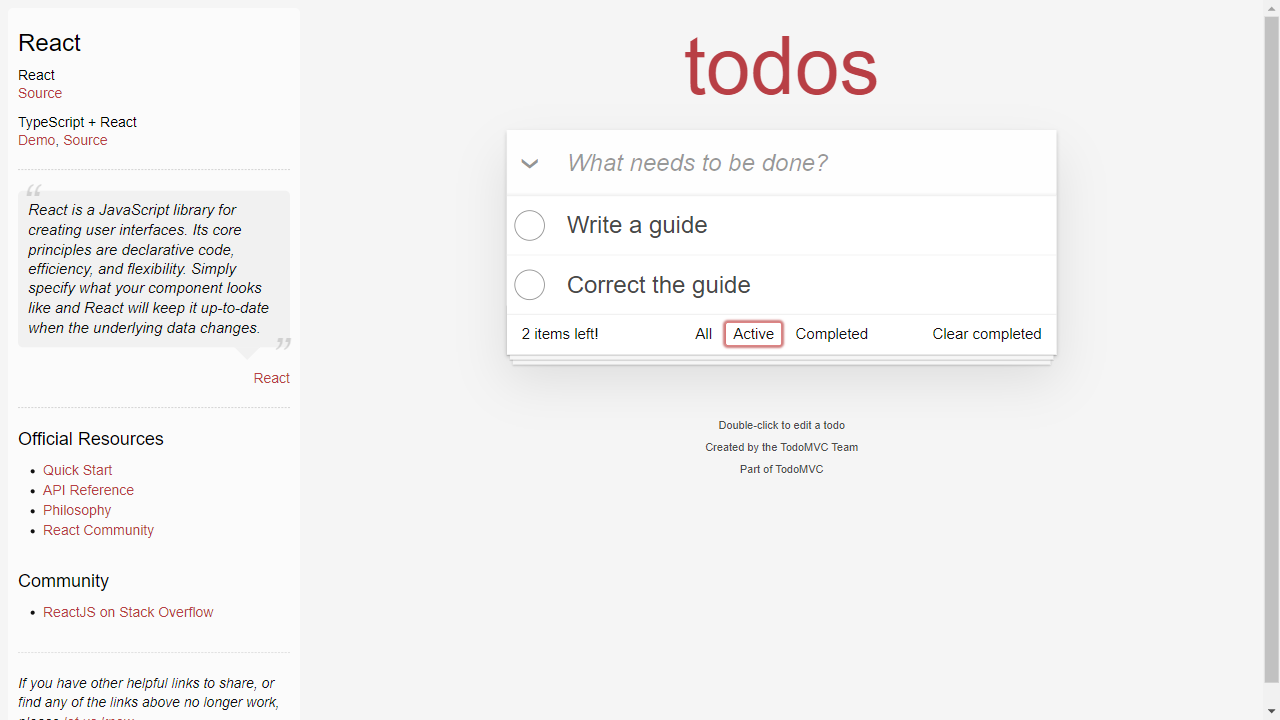
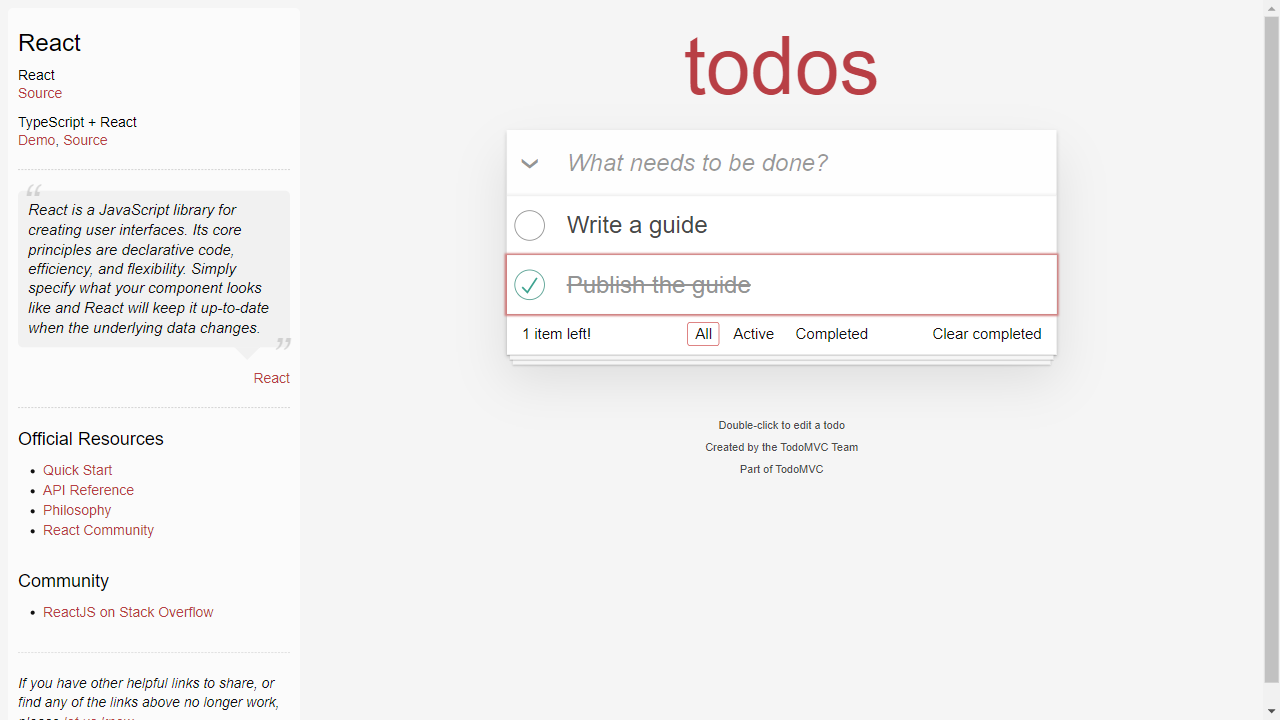
main

Changed region(s): [[0.4062, 0.3361, 0.8125, 0.4889]]

diff --git a/tests/todomvc/test1.js b/tests/todomvc/test1.js
@@ -282,6 +282,7 @@ Scenario('todo item activities', async({ I }) => {
   I.see('2 items left', '.todo-count');
 
   //deleting spcific item and verifying its visibility
+  //for an active item
   //delete an item in "all" page
   I.moveCursorTo(`//li[@data-testid = 'todo-item']//*[text()='Correct the guide']`);
   I.click(`//li[@data-testid = 'todo-item']//label[text()='Correct the guide']/following-sibling::button`)
@@ -295,8 +296,133 @@ Scenario('todo item activities', async({ I }) => {
   I.click(`//ul[@class='filters']//li//a[@href='#/completed']`)
   I.dontSeeElement(`//li[@data-testid = 'todo-item']//*[text()='Correct the guide']`)
   I.see('1 item left', '.todo-count');
-  
-  
+  //tryin this same thing in other tabs
+  //
+  I.click(`//ul[@class='filters']//li//a[@href='#/active']`)
+  I.fillField(`//input[@id='todo-input']`, 'Correct the guide');
+  I.pressKey('Enter');
+  I.seeElement(`//label[text()='Correct the guide']/ancestor::li[@data-testid = 'todo-item']`);
+  I.see('2 items left', '.todo-count');
+  I.moveCursorTo(`//li[@data-testid = 'todo-item']//*[text()='Correct the guide']`);
+  I.click(`//li[@data-testid = 'todo-item']//label[text()='Correct the guide']/following-sibling::button`)
+  I.dontSeeElement(`//li[@data-testid = 'todo-item']//*[text()='Correct the guide']`)
+  I.see('1 item left', '.todo-count');
+  I.click(`//ul[@class='filters']//li//a[@href='#/']`)
+  I.dontSeeElement(`//li[@data-testid = 'todo-item']//*[text()='Correct the guide']`)
+  I.see('1 item left', '.todo-count');
+  I.click(`//ul[@class='filters']//li//a[@href='#/completed']`)
+  I.dontSeeElement(`//li[@data-testid = 'todo-item']//*[text()='Correct the guide']`)
+  I.see('1 item left', '.todo-count');
+  //
+  I.click(`//ul[@class='filters']//li//a[@href='#/completed']`)
+  I.fillField(`//input[@id='todo-input']`, 'Correct the guide');
+  I.pressKey('Enter');
+  I.click(`//ul[@class='filters']//li//a[@href='#/']`)
+  I.seeElement(`//label[text()='Correct the guide']/ancestor::li[@data-testid = 'todo-item']`);
+  I.see('2 items left', '.todo-count');
+  I.moveCursorTo(`//li[@data-testid = 'todo-item']//*[text()='Correct the guide']`);
+  I.click(`//li[@data-testid = 'todo-item']//label[text()='Correct the guide']/following-sibling::button`)
+  I.dontSeeElement(`//li[@data-testid = 'todo-item']//*[text()='Correct the guide']`)
+  I.see('1 item left', '.todo-count');
+  I.click(`//ul[@class='filters']//li//a[@href='#/active']`)
+  I.dontSeeElement(`//li[@data-testid = 'todo-item']//*[text()='Correct the guide']`)
+  I.see('1 item left', '.todo-count');
+  I.click(`//ul[@class='filters']//li//a[@href='#/']`)
+  I.dontSeeElement(`//li[@data-testid = 'todo-item']//*[text()='Correct the guide']`)
+  I.see('1 item left', '.todo-count');
+
+  //deleting spcific item and verifying its visibility
+  //for an completed item
+  //delete an item in "all" page
+  I.fillField(`//input[@id='todo-input']`, 'Publish the guide');
+  I.pressKey('Enter');
+  I.seeElement(`//li[@data-testid = 'todo-item']//*[text()='Publish the guide']`)
+  I.see('2 items left', '.todo-count');
+  I.moveCursorTo(`//li[@data-testid = 'todo-item']//*[text()='Publish the guide']`);
+  I.click(`//li[@data-testid = 'todo-item']//label[text()='Publish the guide']/preceding-sibling::*`)
+  I.seeElement(`//label[text()='Publish the guide']/ancestor::li[@data-testid = 'todo-item'  and @class='completed']`);
+  I.see('1 item left', '.todo-count');
+  I.moveCursorTo(`//li[@data-testid = 'todo-item']//*[text()='Publish the guide']`);
+  I.click(`//li[@data-testid = 'todo-item']//label[text()='Publish the guide']/following-sibling::button`)
+  I.dontSeeElement(`//label[text()='Publish the guide']/ancestor::li[@data-testid = 'todo-item'  and @class='completed']`);
+  I.see('1 item left', '.todo-count');
+  //in "active" page
+  I.click(`//ul[@class='filters']//li//a[@href='#/active']`)
+  I.fillField(`//input[@id='todo-input']`, 'Publish the guide');
+  I.pressKey('Enter');
+  I.seeElement(`//li[@data-testid = 'todo-item']//*[text()='Publish the guide']`)
+  I.see('2 items left', '.todo-count');
+  I.moveCursorTo(`//li[@data-testid = 'todo-item']//*[text()='Publish the guide']`);
+  I.click(`//li[@data-testid = 'todo-item']//label[text()='Publish the guide']/preceding-sibling::*`)
+  I.dontSeeElement(`//label[text()='Publish the guide']/ancestor::li[@data-testid = 'todo-item'  and @class='completed']`);
+  I.click(`//ul[@class='filters']//li//a[@href='#/completed']`)
+  I.seeElement(`//label[text()='Publish the guide']/ancestor::li[@data-testid = 'todo-item'  and @class='completed']`);
+  I.see('1 item left', '.todo-count');
+  I.moveCursorTo(`//li[@data-testid = 'todo-item']//*[text()='Publish the guide']`);
+  I.click(`//li[@data-testid = 'todo-item']//label[text()='Publish the guide']/following-sibling::button`)
+  I.dontSeeElement(`//label[text()='Publish the guide']/ancestor::li[@data-testid = 'todo-item'  and @class='completed']`);
+  I.see('1 item left', '.todo-count');
+
+  //in "completed" page
+  I.click(`//ul[@class='filters']//li//a[@href='#/completed']`)
+  I.fillField(`//input[@id='todo-input']`, 'Publish the guide');
+  I.pressKey('Enter');
+  I.dontSeeElement(`//li[@data-testid = 'todo-item']//*[text()='Publish the guide']`)
+  I.see('2 items left', '.todo-count');
+  I.click(`//ul[@class='filters']//li//a[@href='#/']`)
+  I.seeElement(`//li[@data-testid = 'todo-item']//*[text()='Publish the guide']`)
+  I.see('2 items left', '.todo-count');
+  I.moveCursorTo(`//li[@data-testid = 'todo-item']//*[text()='Publish the guide']`);
+  I.click(`//li[@data-testid = 'todo-item']//label[text()='Publish the guide']/preceding-sibling::*`)
+  I.seeElement(`//li[@data-testid = 'todo-item' and @class='completed']//*[text()='Publish the guide' ]`)
+  I.see('1 item left', '.todo-count');
+  I.click(`//ul[@class='filters']//li//a[@href='#/completed']`)
+  I.seeElement(`//li[@data-testid = 'todo-item' and @class='completed']//*[text()='Publish the guide']`)
+  I.moveCursorTo(`//li[@data-testid = 'todo-item' and @class='completed']//*[text()='Publish the guide']`);
+  I.click(`//li[@data-testid = 'todo-item']//label[text()='Publish the guide']/following-sibling::button`)
+  I.dontSeeElement(`//label[text()='Publish the guide' and @class='completed']/ancestor::li[@data-testid = 'todo-item']`);
+  I.see('1 item left', '.todo-count');
+
+  //editing an active element and checking if it is edited in all and active
+  I.click(`//ul[@class='filters']//li//a[@href='#/']`)
+  I.fillField(`//input[@id='todo-input']`, 'Publish the guide');
+  I.pressKey('Enter');
+  I.see('2 items left', '.todo-count');
+
+  I.moveCursorTo(`//li[@data-testid = 'todo-item']//*[text()='Publish the guide']`);
+  I.doubleClick(`//li[@data-testid='todo-item']//label[text()='Publish the guide']/parent::div`);
+  I.seeElementInDOM(`//li[@data-testid='todo-item']//input[@data-testid='text-input']`);
+  I.fillField(`//li[@data-testid='todo-item']//input[@data-testid='text-input']`,'updated . proofread the guide');
+  I.pressKey('Enter')
+
+  I.seeElement(`//li[@data-testid='todo-item']//label[text()='updated . proofread the guide']`);
+  I.dontSee(`//li[@data-testid='todo-item']//label[text()='Publish the guide']`);
+  I.see('2 items left', '.todo-count');
+
+  I.click(`//ul[@class='filters']//li//a[@href='#/active']`)
+  I.seeElement(`//li[@data-testid='todo-item']//label[text()='updated . proofread the guide']`);
+  I.dontSee(`//li[@data-testid='todo-item']//label[text()='Publish the guide']`);
+  I.see('2 items left', '.todo-count');
+
+
+  //editing an completed element and checking if it is edited in all and active
+  I.click(`//ul[@class='filters']//li//a[@href='#/']`)
+  I.see('2 items left', '.todo-count');
+
+  I.moveCursorTo(`//li[@data-testid = 'todo-item']//*[text()='updated . proofread the guide']`);
+  I.click(`//li[@data-testid = 'todo-item']//label[text()='updated . proofread the guide']/preceding-sibling::*`)
+  I.seeElement(`//li[@data-testid = 'todo-item' and @class='completed']//*[text()='updated . proofread the guide' ]`)
+  I.see('1 item left', '.todo-count');
+
+  I.doubleClick(`//li[@data-testid='todo-item']//label[text()='updated . proofread the guide']/parent::div`);
+  I.seeElementInDOM(`//li[@data-testid='todo-item']//input[@data-testid='text-input']`);
+  I.fillField(`//li[@data-testid='todo-item']//input[@data-testid='text-input']`,'again updated . proofread the guide');
+  I.pressKey('Enter')
+
+  I.seeElement(`//li[@data-testid='todo-item']//label[text()='again updated . proofread the guide']`);
+  I.dontSee(`//li[@data-testid='todo-item']//label[text()='updated . proofread the guide']`);
+  I.see('1 item left', '.todo-count');
+
 });
 
 
